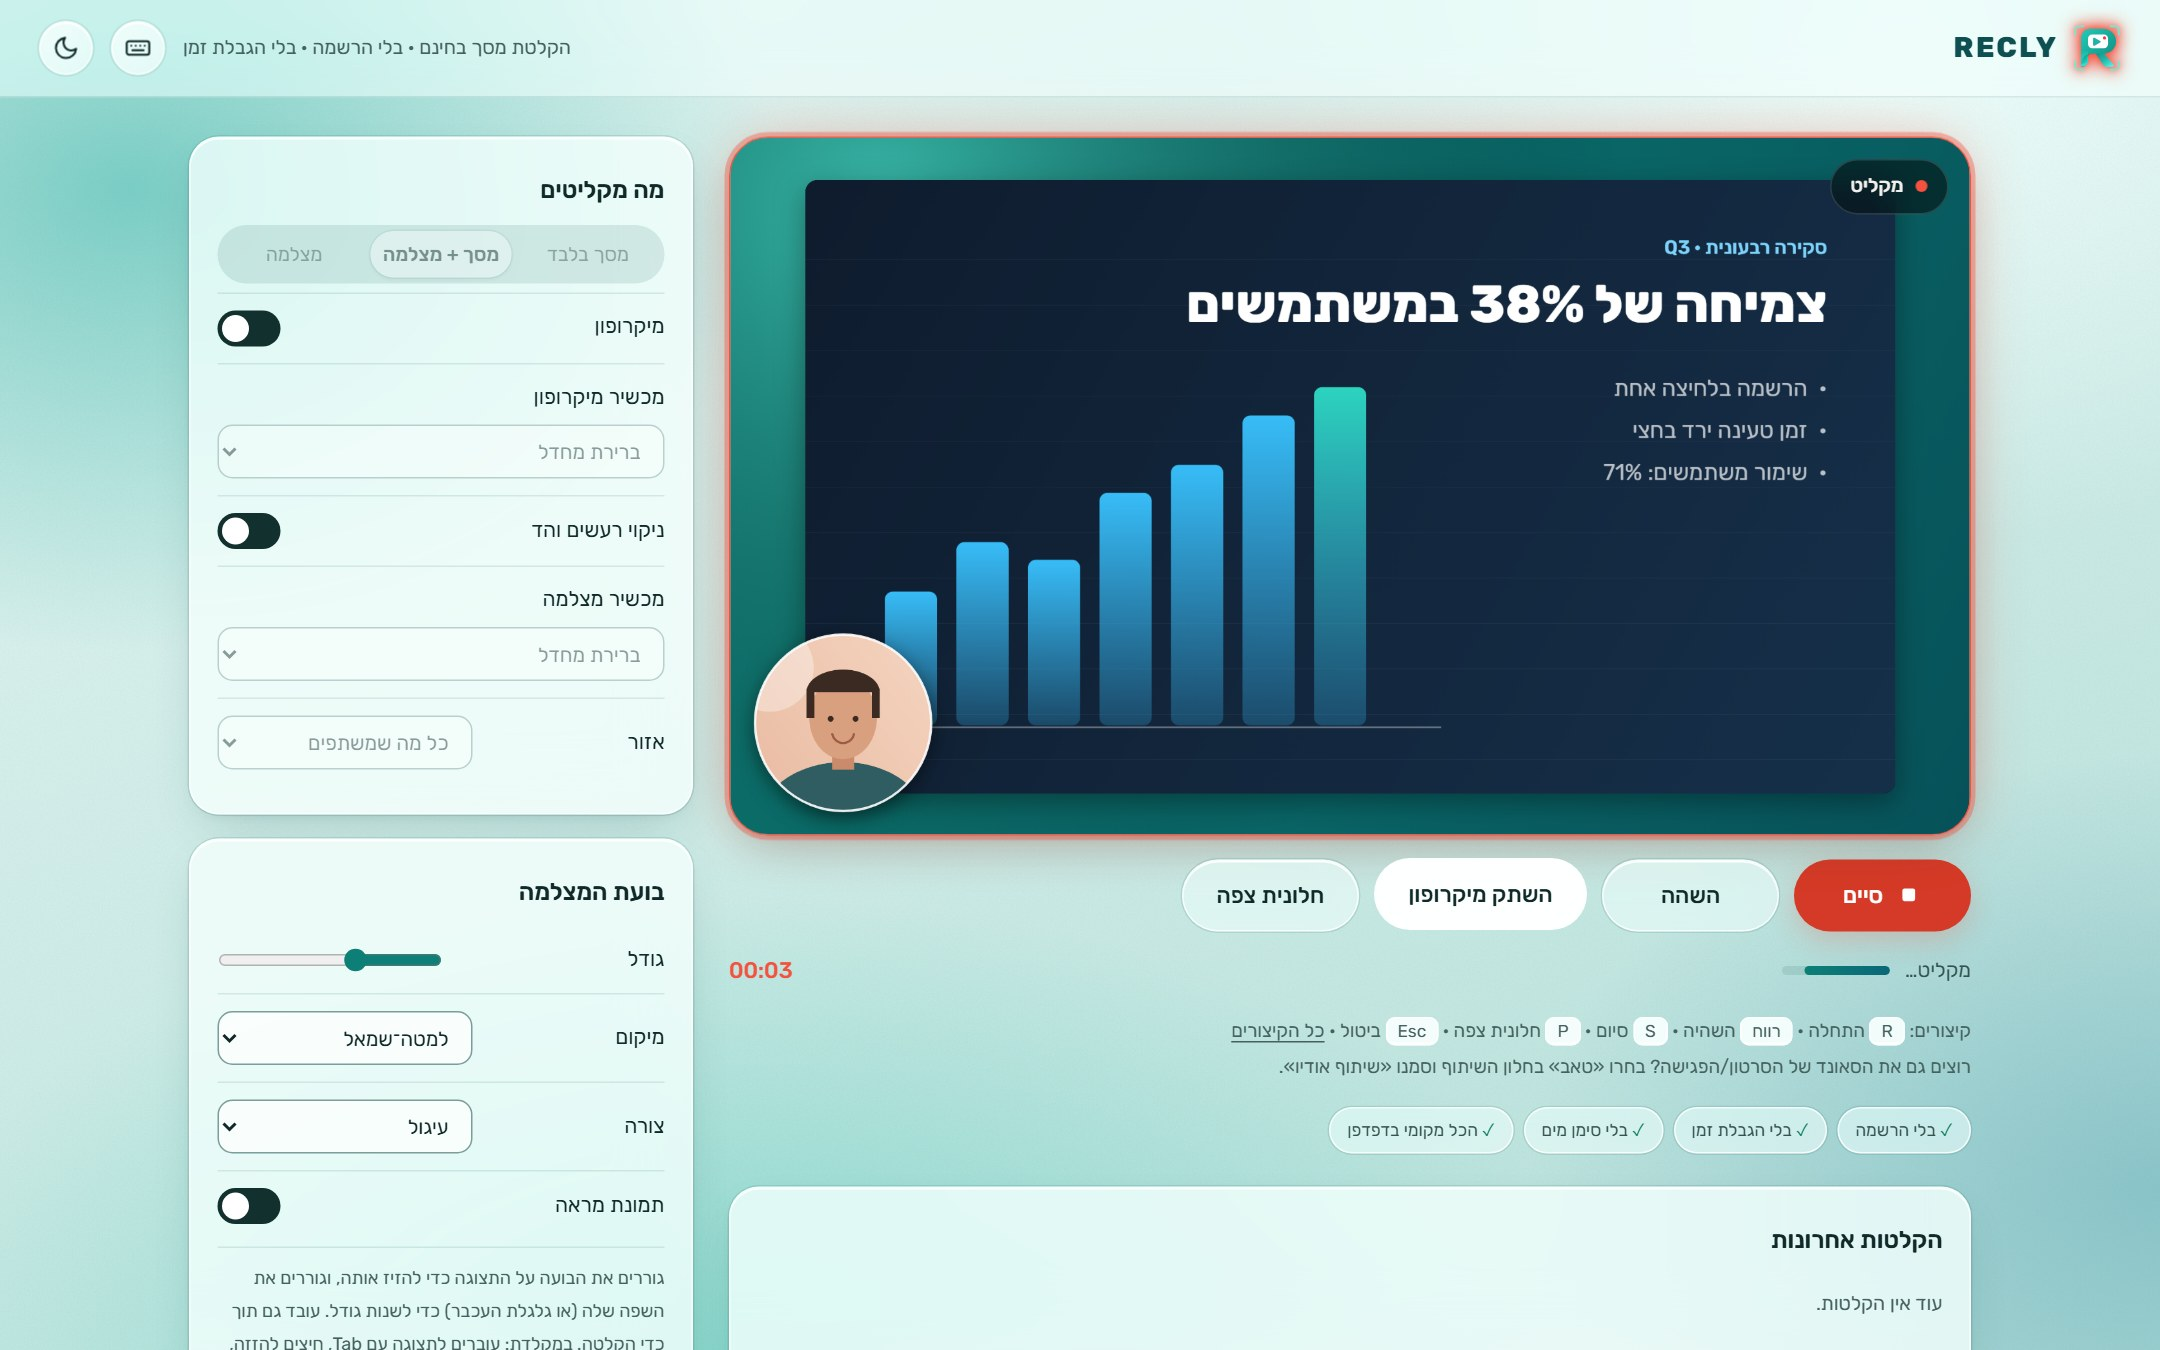
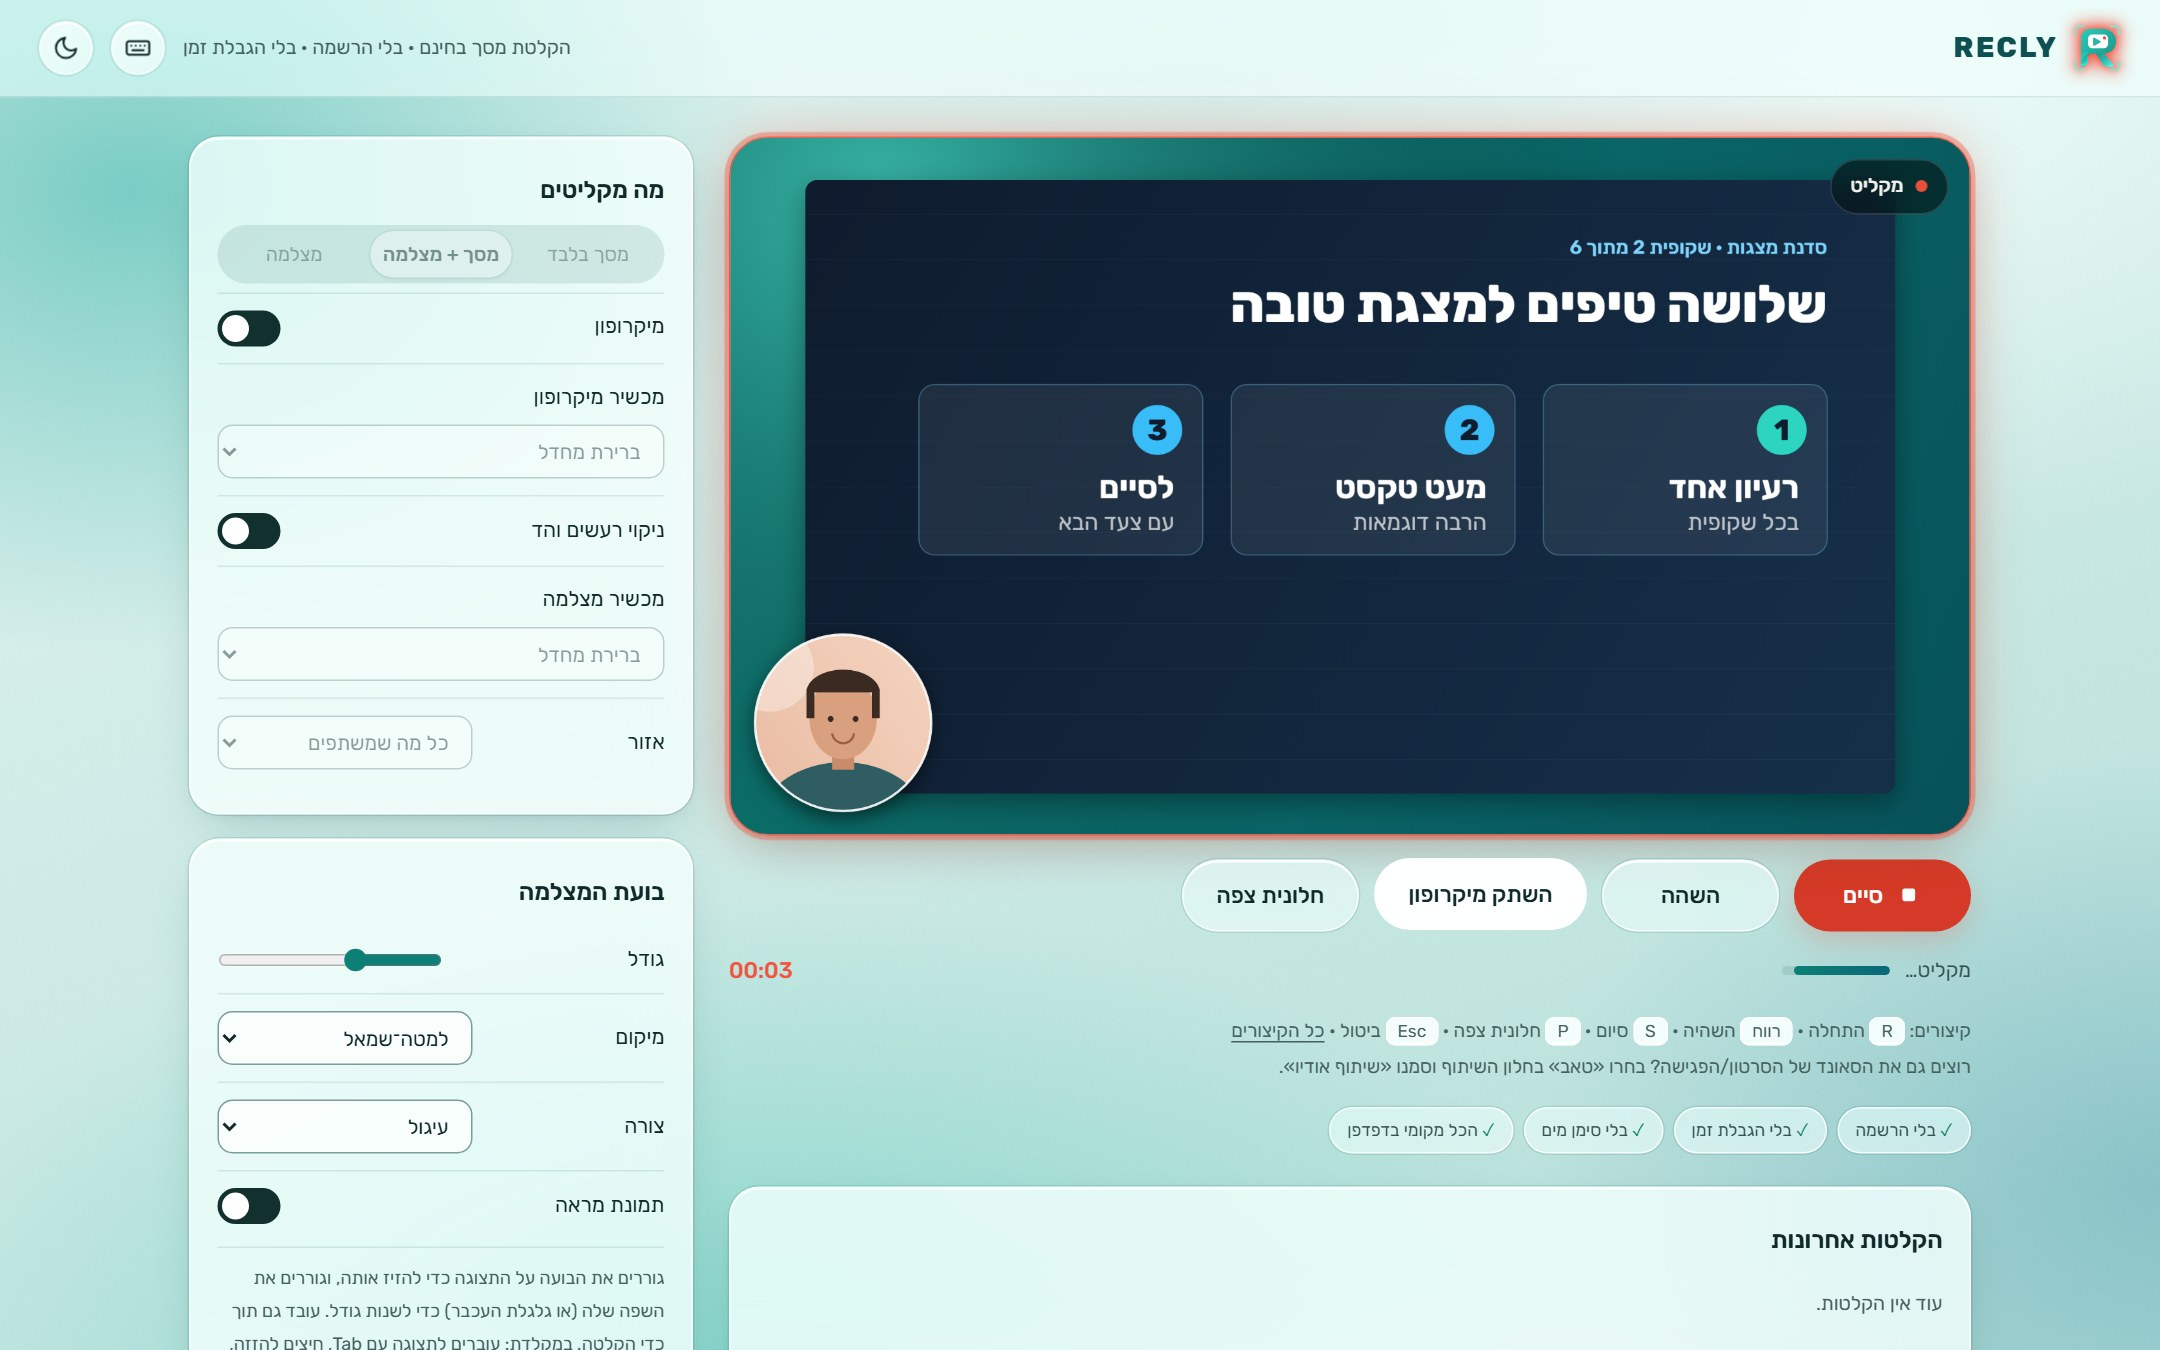
README: demo GIF, neutral sample slide in the screenshots
The sample slide used to show a made-up growth chart that could be read
as a real number. It now shows three presentation tips, and the demo
captions match it.

Changed region(s): [[0.4032, 0.28, 0.7134, 0.56], [0.5273, 0.1556, 0.8375, 0.2489], [0.7444, 0.28, 0.8375, 0.4044]]

diff --git a/scripts/readme-art.js b/scripts/readme-art.js
@@ -4,6 +4,11 @@ const http = require('http'), fs = require('fs'), path = require('path');
 const { chromium } = require('playwright');
 const ROOT = path.join(__dirname, '..');
 const OUT_B = path.join(ROOT, 'docs', 'brand'), OUT_S = path.join(ROOT, 'docs', 'screenshots');
+const { execFileSync } = require('child_process');
+const MOCK_CUES = () => { window.__asrMock = async () => [
+  { start: 0.4, end: 2.8, text: 'היום נעבור על שלושה טיפים למצגת טובה.' },
+  { start: 2.9, end: 5.6, text: 'הראשון: רעיון אחד בכל שקופית.' },
+  { start: 5.7, end: 8.6, text: 'והאחרון: תמיד לסיים עם צעד הבא.' }]; };
 const TYPES = { '.html': 'text/html; charset=utf-8', '.js': 'text/javascript', '.mjs': 'text/javascript', '.wasm': 'application/wasm', '.woff2': 'font/woff2', '.png': 'image/png', '.webmanifest': 'application/manifest+json', '.ico': 'image/x-icon', '.svg': 'image/svg+xml' };
 
 const MARK_SVG = fs.readFileSync(path.join(ROOT, 'icons', 'mark.svg'), 'utf8');
@@ -60,19 +65,23 @@ const DEMO = () => {
     const g = screen.getContext('2d'), W = 1920, H = 1080;
     const bg = g.createLinearGradient(0, 0, W, H); bg.addColorStop(0, '#0f1c2e'); bg.addColorStop(1, '#16304a');
     g.fillStyle = bg; g.fillRect(0, 0, W, H);
-    g.fillStyle = 'rgba(255,255,255,.06)'; for (let i = 0; i < 12; i++) g.fillRect(0, 140 + i * 80, W, 1);
-    g.fillStyle = '#7dd3fc'; g.font = '600 34px Rubik, Segoe UI, sans-serif'; g.textAlign = 'right'; g.direction = 'rtl';
-    g.fillText('סקירה רבעונית · Q3', W - 120, 130);
-    g.fillStyle = '#fff'; g.font = '800 92px Rubik, Segoe UI, sans-serif'; g.fillText('צמיחה של 38% במשתמשים', W - 120, 250);
-    g.fillStyle = 'rgba(255,255,255,.7)'; g.font = '400 40px Rubik, Segoe UI, sans-serif';
-    ['הרשמה בלחיצה אחת', 'זמן טעינה ירד בחצי', 'שימור משתמשים: 71%'].forEach((s, i) => { g.fillText('•  ' + s, W - 120, 380 + i * 74); });
-    const vals = [38, 52, 47, 66, 74, 88, 96], bw = 92;
-    vals.forEach((v, i) => {
-      const k = Math.min(1, Math.max(0, (t - i * .12) * 1.4)), h = v * 6.2 * k, x = 140 + i * (bw + 34), y = 960 - h;
-      const gr = g.createLinearGradient(0, y, 0, 960); gr.addColorStop(0, i === vals.length - 1 ? '#2dd4bf' : '#38bdf8'); gr.addColorStop(1, 'rgba(56,189,248,.25)');
-      g.fillStyle = gr; g.beginPath(); g.roundRect(x, y, bw, h, 14); g.fill();
+    g.fillStyle = 'rgba(255,255,255,.05)'; for (let i = 0; i < 14; i++) g.fillRect(0, 60 + i * 80, W, 1);
+    g.textAlign = 'right'; g.direction = 'rtl';
+    g.fillStyle = '#7dd3fc'; g.font = '600 34px Rubik, Segoe UI, sans-serif'; g.fillText('סדנת מצגות · שקופית 2 מתוך 6', W - 120, 130);
+    g.fillStyle = '#fff'; g.font = '800 92px Rubik, Segoe UI, sans-serif'; g.fillText('שלושה טיפים למצגת טובה', W - 120, 250);
+    const tips = [['1', 'רעיון אחד', 'בכל שקופית'], ['2', 'מעט טקסט', 'הרבה דוגמאות'], ['3', 'לסיים', 'עם צעד הבא']];
+    const cw = 500, gap = 50, top = 360;
+    tips.forEach(([n, a, b], i) => {
+      const k = Math.min(1, Math.max(0, (t - i * .25) * 1.6)), x = W - 120 - (i + 1) * cw - i * gap, y = top + (1 - k) * 40;
+      g.globalAlpha = k;
+      g.fillStyle = 'rgba(255,255,255,.07)'; g.strokeStyle = 'rgba(125,211,252,.35)'; g.lineWidth = 2;
+      g.beginPath(); g.roundRect(x, y, cw, 300, 28); g.fill(); g.stroke();
+      g.fillStyle = i === 0 ? '#2dd4bf' : '#38bdf8'; g.beginPath(); g.arc(x + cw - 80, y + 80, 44, 0, 7); g.fill();
+      g.fillStyle = '#0f1c2e'; g.textAlign = 'center'; g.font = '800 52px Rubik, Segoe UI, sans-serif'; g.fillText(n, x + cw - 80, y + 98);
+      g.textAlign = 'right'; g.fillStyle = '#fff'; g.font = '700 56px Rubik, Segoe UI, sans-serif'; g.fillText(a, x + cw - 50, y + 200);
+      g.fillStyle = 'rgba(255,255,255,.7)'; g.font = '400 40px Rubik, Segoe UI, sans-serif'; g.fillText(b, x + cw - 50, y + 256);
+      g.globalAlpha = 1;
     });
-    g.fillStyle = 'rgba(255,255,255,.35)'; g.fillRect(120, 962, 1000, 3);
     const c = cam.getContext('2d');
     const cb = c.createLinearGradient(0, 0, 640, 480); cb.addColorStop(0, '#f6d7c3'); cb.addColorStop(1, '#e9b9a0');
     c.fillStyle = cb; c.fillRect(0, 0, 640, 480);
@@ -158,9 +167,9 @@ const DEMO = () => {
     await recordWithBubble(page); await page.waitForTimeout(6000);
     await page.click('#btnStop'); await page.waitForFunction(() => phase === 'done' && speech && speech.has, null, { timeout: 30000 });
     await page.evaluate(() => { window.__asrMock = async () => [
-      { start: 0.6, end: 2.6, text: 'שלום לכולם וברוכים הבאים.' },
-      { start: 2.8, end: 5.3, text: 'היום אני אראה לכם איך מקליטים את המסך בקלות.' },
-      { start: 5.5, end: 8.4, text: 'לוחצים על הכפתור, בוחרים חלון ומתחילים לדבר.' }]; });
+      { start: 0.4, end: 2.8, text: 'היום נעבור על שלושה טיפים למצגת טובה.' },
+      { start: 2.9, end: 5.6, text: 'הראשון: רעיון אחד בכל שקופית.' },
+      { start: 5.7, end: 8.6, text: 'והאחרון: תמיד לסיים עם צעד הבא.' }]; });
     await page.click('#btnCap'); await page.waitForFunction(() => cues.length === 3);
     await page.evaluate(() => { const v = document.getElementById('playback'); v.currentTime = 3.6; });
     await page.waitForTimeout(800);
@@ -178,6 +187,41 @@ const DEMO = () => {
     await page.waitForTimeout(300);
     await shot(page, 'region-dark');
   });
+
+  // Demo GIF: pick a mode, record with the bubble, move it, stop, get Hebrew captions, play.
+  {
+    const VID = path.join(ROOT, 'tests', 'output', 'gif'); fs.rmSync(VID, { recursive: true, force: true });
+    const ctx = await browser.newContext({ viewport: { width: 1280, height: 800 }, colorScheme: 'light', recordVideo: { dir: VID, size: { width: 1280, height: 800 } } });
+    await ctx.addInitScript(DEMO);
+    await ctx.addInitScript(() => { try { if (!sessionStorage.getItem('s')) { sessionStorage.setItem('s', 1); localStorage.clear(); localStorage.setItem('recly.theme', 'light'); } } catch (e) {} });
+    const page = await ctx.newPage(); const t0 = Date.now();
+    await page.goto(base); await page.evaluate(() => document.fonts.ready);
+    await page.selectOption('#cd', '0'); await page.selectOption('#frame', 'teal');
+    const lead = (Date.now() - t0) / 1000;
+    await page.waitForTimeout(700);
+    await page.click('#seg button[data-m="screen+cam"]'); await page.waitForTimeout(1200);
+    await page.click('#btnStart'); await page.waitForFunction(() => phase === 'recording'); await page.waitForTimeout(2200);
+    const b = await page.locator('#stage').boundingBox();
+    const from = await page.evaluate(() => { const r = stage.getBoundingClientRect(), k = r.width / stage.width; return { x: r.left + (box.x + box.w / 2) * k, y: r.top + (box.y + box.h / 2) * k }; });
+    await page.mouse.move(from.x, from.y); await page.mouse.down();
+    await page.mouse.move(b.x + b.width * .86, b.y + b.height * .78, { steps: 25 }); await page.mouse.up();
+    await page.waitForTimeout(3500);
+    await page.click('#btnStop'); await page.waitForFunction(() => phase === 'done' && speech && speech.has, null, { timeout: 30000 });
+    await page.evaluate(MOCK_CUES);
+    await page.evaluate(() => window.scrollTo({ top: document.getElementById('capBox').getBoundingClientRect().top + scrollY - 470, behavior: 'smooth' }));
+    await page.waitForTimeout(900);
+    await page.click('#btnCap'); await page.waitForFunction(() => cues.length === 3); await page.waitForTimeout(1600);
+    await page.evaluate(() => window.scrollTo({ top: document.getElementById('playback').getBoundingClientRect().top + scrollY - 76, behavior: 'smooth' }));
+    await page.waitForTimeout(900);
+    await page.evaluate(() => { const v = document.getElementById('playback'); v.muted = true; v.currentTime = 0.5; v.play(); });
+    await page.waitForTimeout(5200);
+    const dur = (Date.now() - t0) / 1000 - lead;
+    const video = page.video(); await ctx.close();
+    const webm = await video.path(), gifPath = path.join(OUT_S, 'demo.gif');
+    const vf = 'fps=12,scale=960:-1:flags=lanczos,split[a][b];[a]palettegen=max_colors=160:stats_mode=diff[p];[b][p]paletteuse=dither=bayer:bayer_scale=4:diff_mode=rectangle';
+    execFileSync('ffmpeg', ['-y', '-loglevel', 'error', '-ss', String(lead.toFixed(2)), '-t', String(dur.toFixed(2)), '-i', webm, '-vf', vf, '-loop', '0', gifPath]);
+    console.log('gif', (fs.statSync(gifPath).size / 1048576).toFixed(2) + ' MB', dur.toFixed(1) + ' s');
+  }
   await browser.close(); srv.close();
   console.log('ok', fs.readdirSync(OUT_B), fs.readdirSync(OUT_S));
 })();

diff --git a/README.md b/README.md
@@ -18,10 +18,8 @@
   <a href="https://github.com/alonsa-93/recly/actions/workflows/ci.yml"><img src="https://github.com/alonsa-93/recly/actions/workflows/ci.yml/badge.svg" alt="CI"></a>
 </p>
 
-<picture>
-  <source media="(prefers-color-scheme: dark)" srcset="docs/screenshots/recording-dark.jpg">
-  <img src="docs/screenshots/recording-light.jpg" alt="Recly recording a slide deck with a camera bubble" width="90%">
-</picture>
+<img src="docs/screenshots/demo.gif" alt="Recly in action: pick screen + camera, record, move the camera bubble, stop, and get Hebrew captions" width="90%"><br>
+<sub>Screen + camera → record → move the bubble → stop → Hebrew captions. Demo media, no real data.</sub>
 
 </div>
 
@@ -64,7 +62,7 @@
 | ♿ **Accessible** | right-to-left Hebrew UI, keyboard shortcuts, light and dark themes, automated WCAG 2.1 AA checks |
 
 ## 📸 Screenshots
-<sub>All screenshots use built-in demo media: a drawn slide deck and an illustrated presenter.</sub>
+<sub>All screenshots use built-in demo media: a drawn sample slide and an illustrated presenter. Nothing in them is real data.</sub>
 
 | Recording with a camera bubble (light) | Recording (dark) |
 |---|---|
